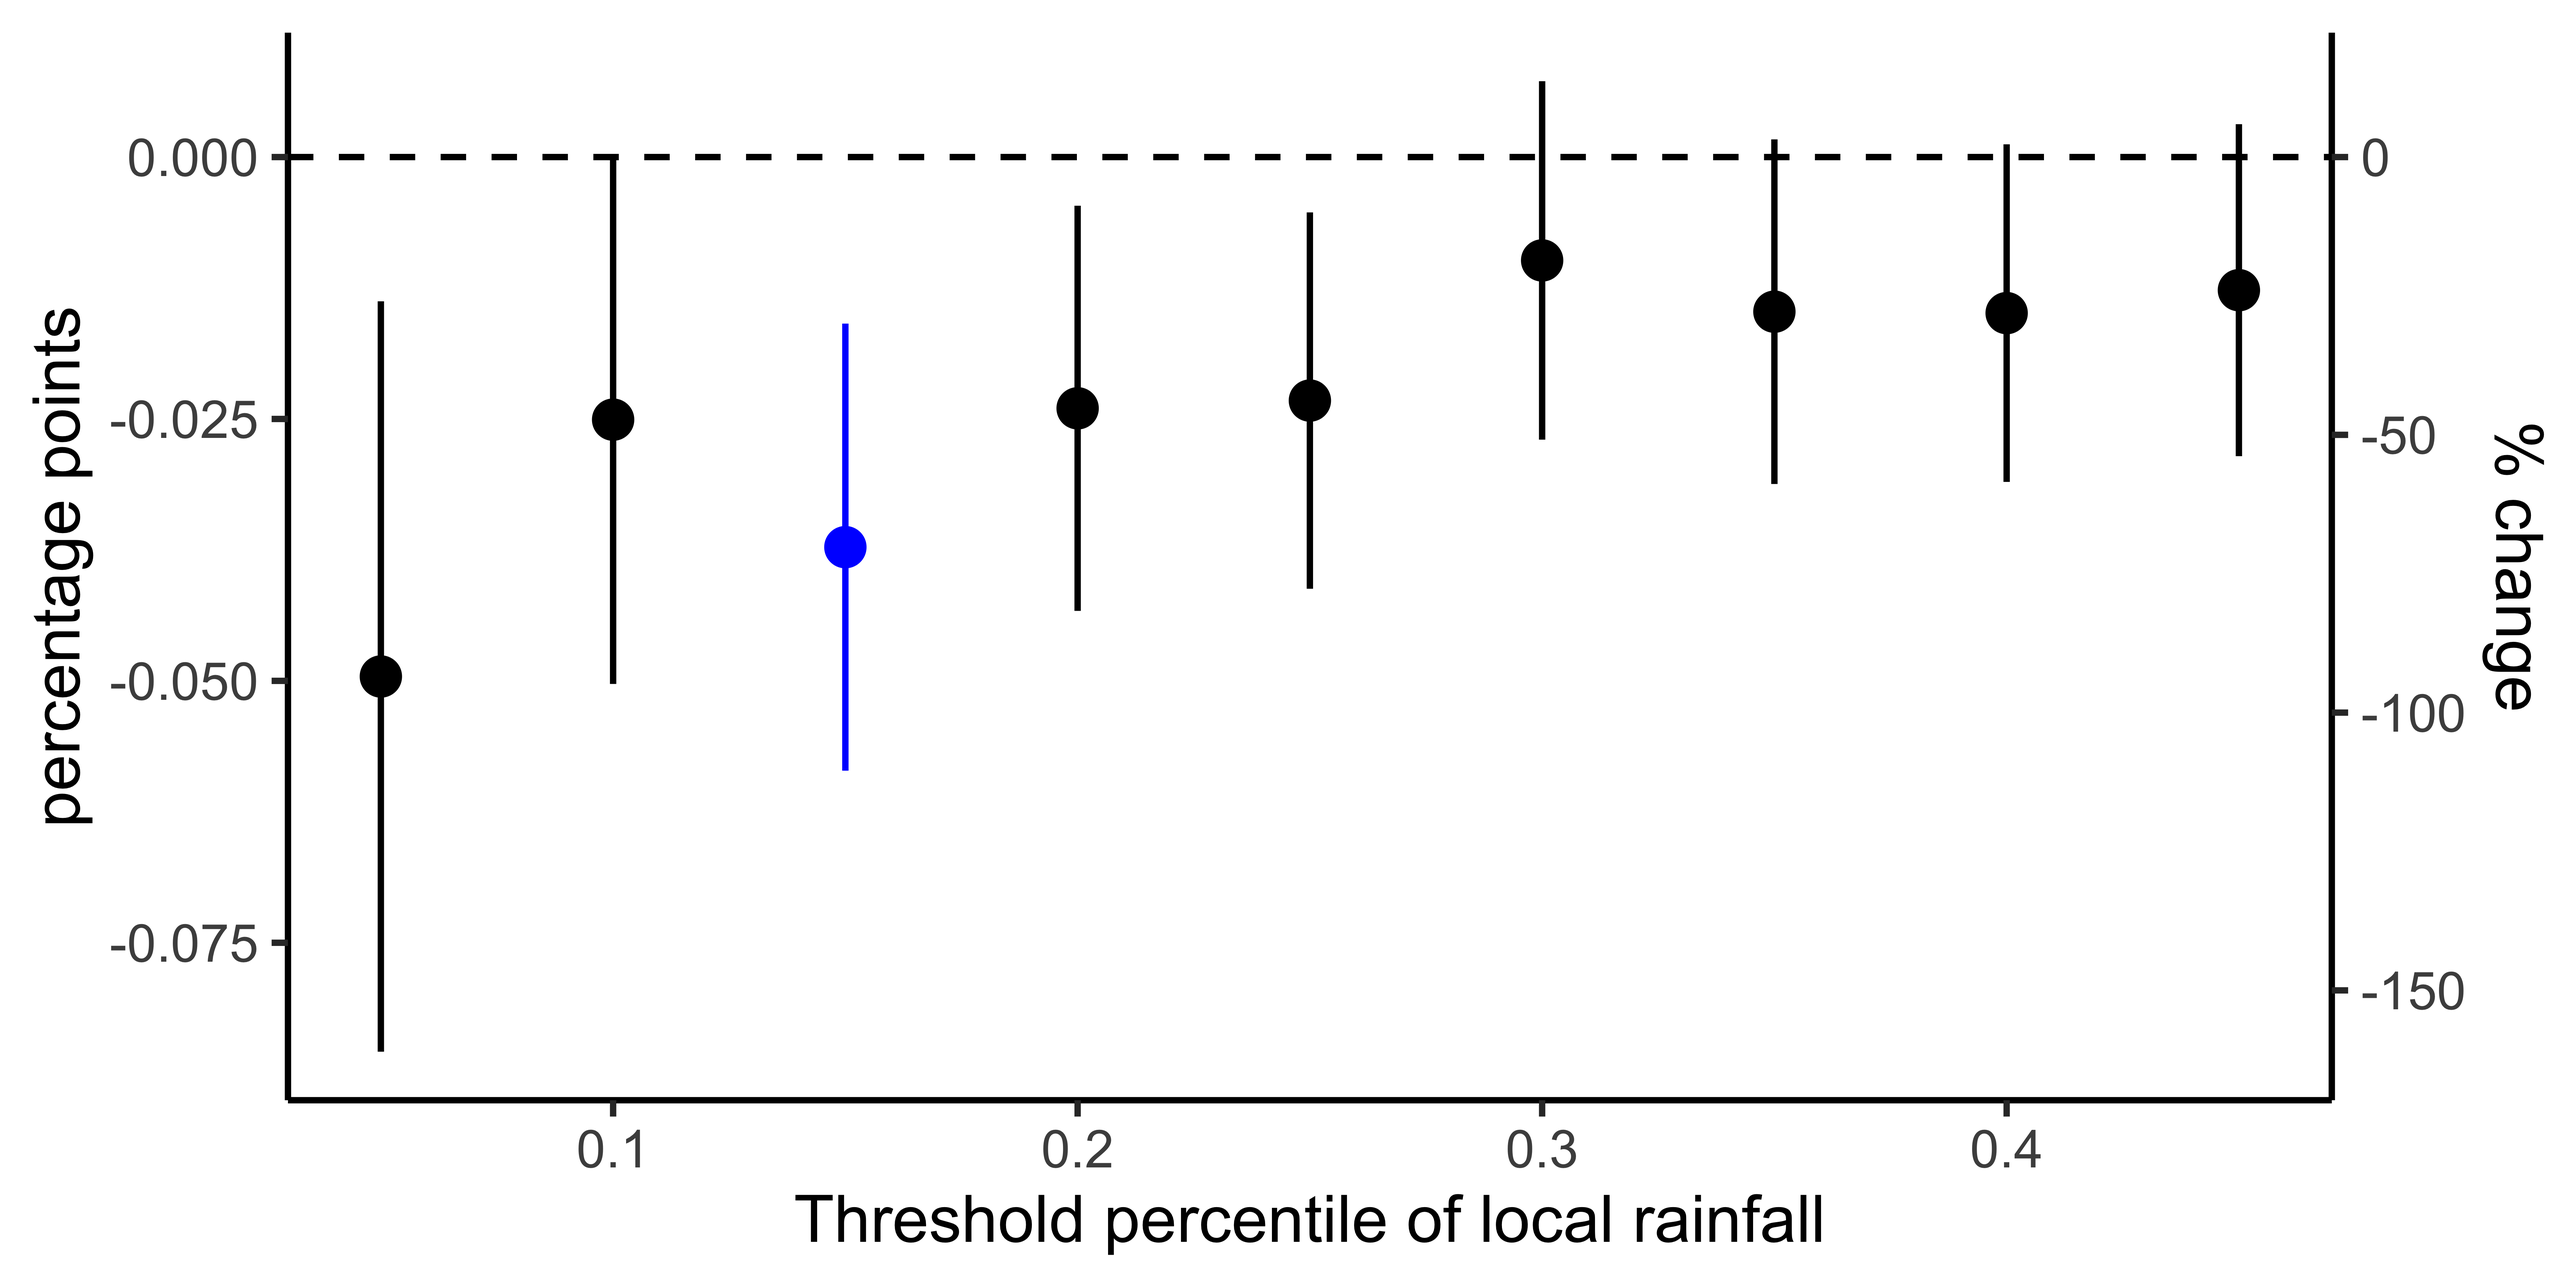
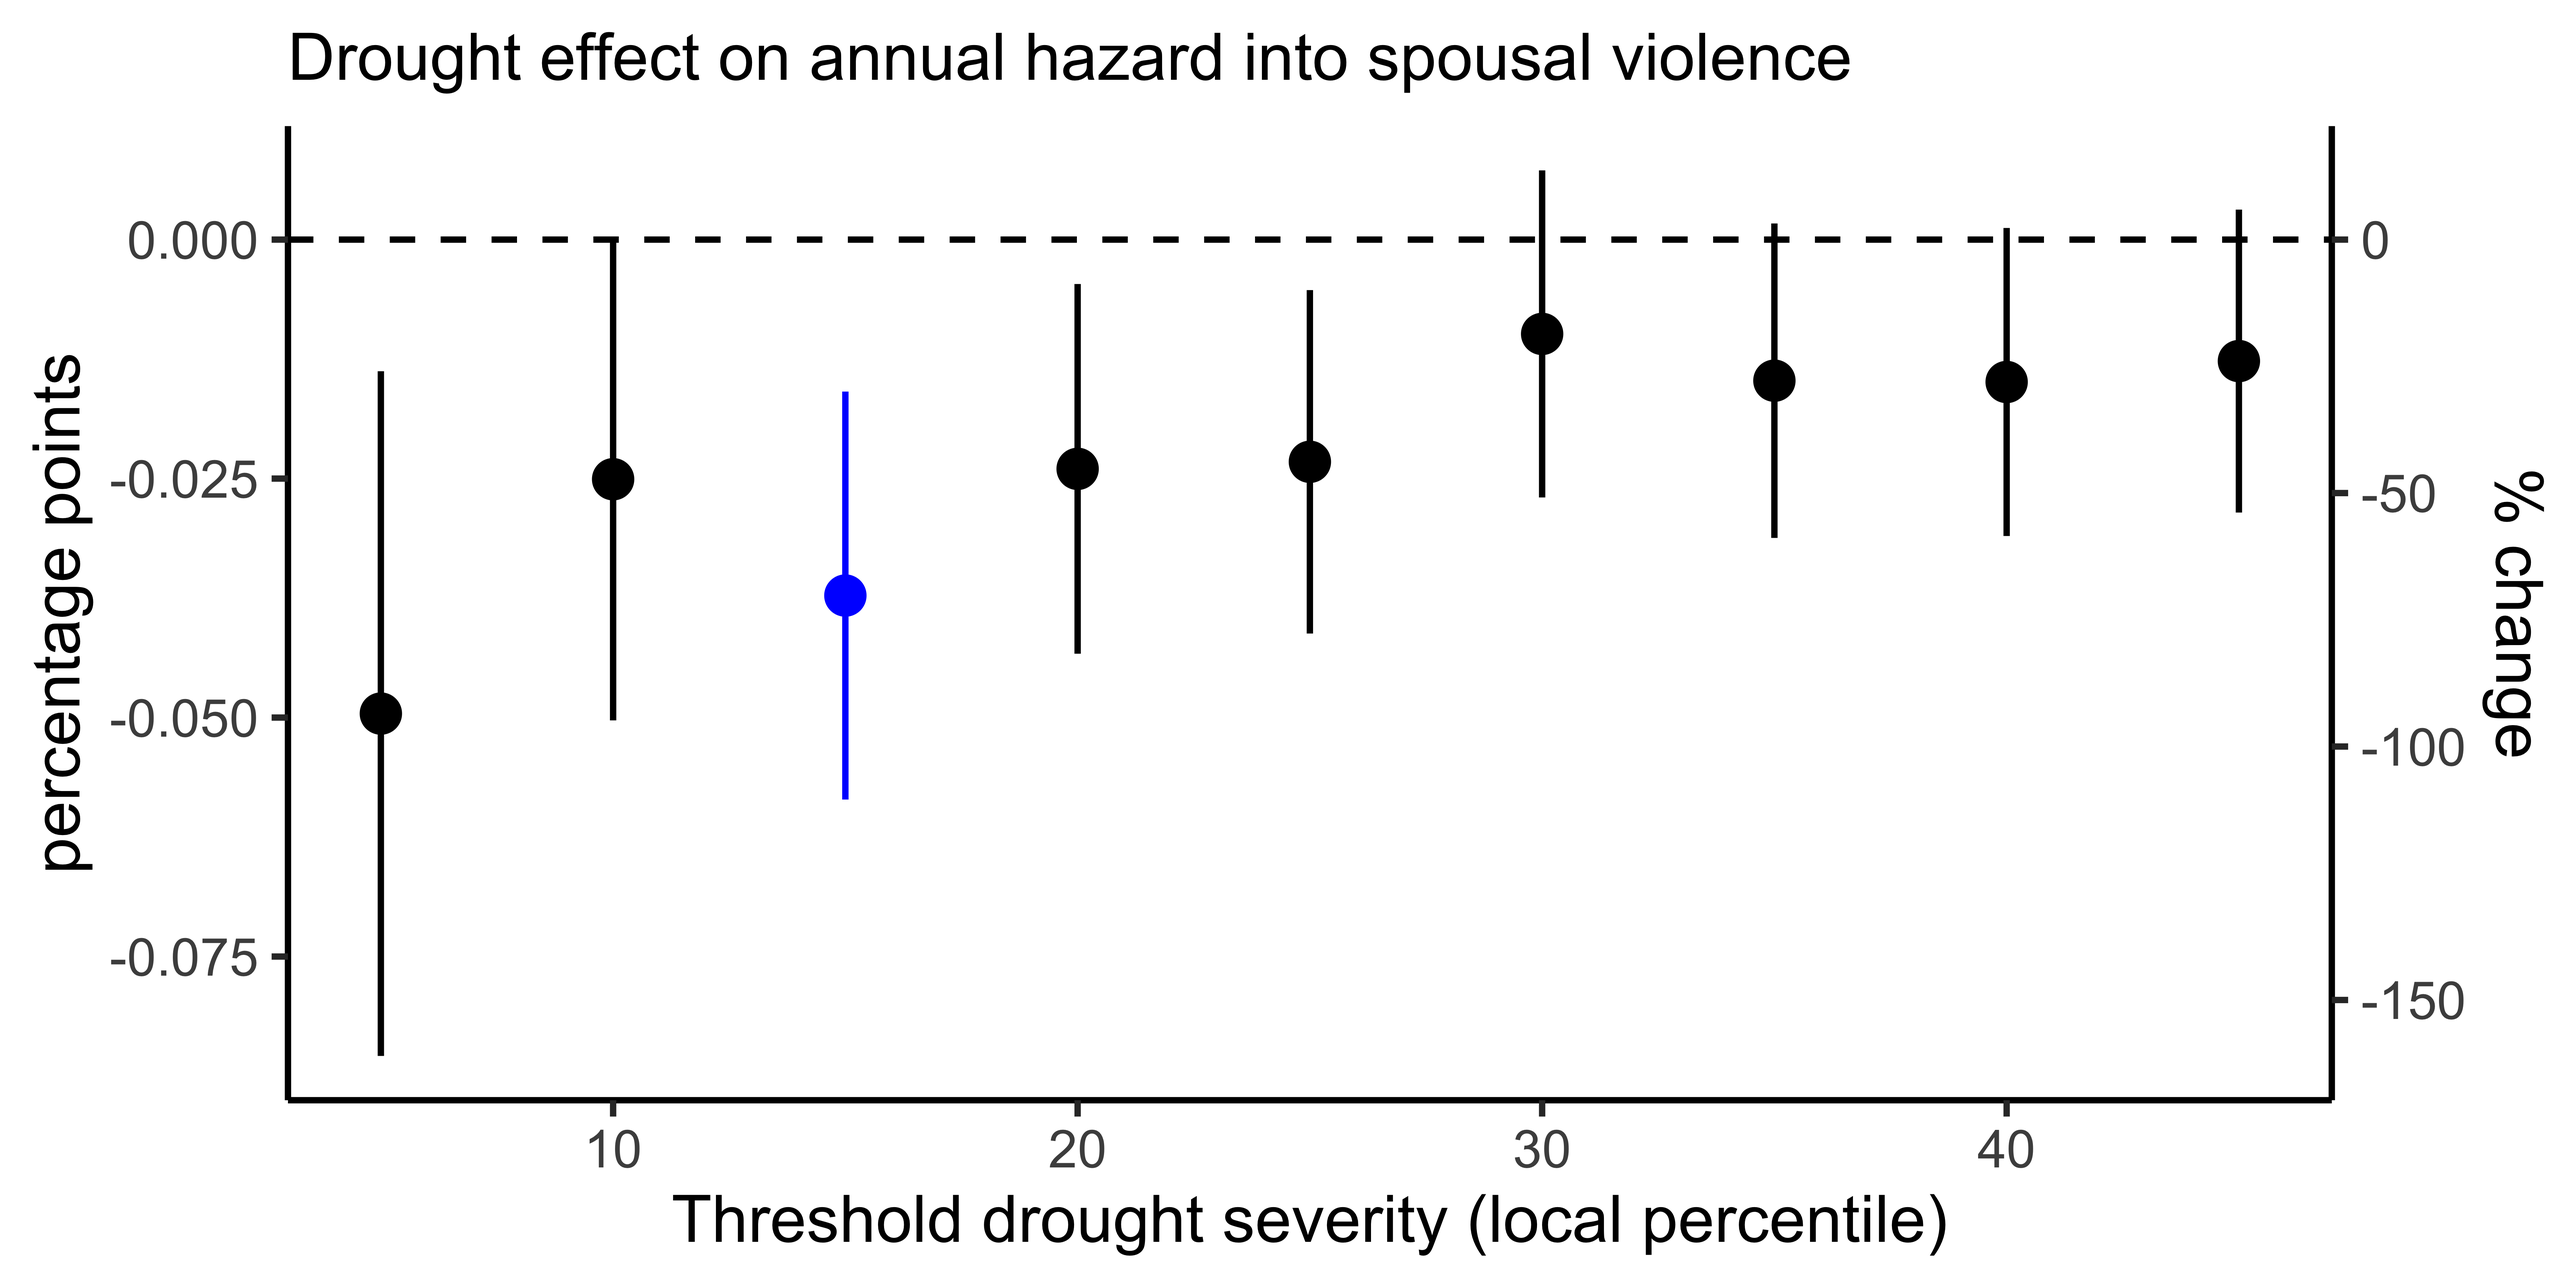
Figs

diff --git a/content/research.md b/content/research.md
@@ -36,11 +36,11 @@ I empirically test the relative merits of these theories first by measuring the 
 
 ### Evidence of a drought effect on the hazard into spousal violence (WP)
 
-**Tanushree Goyal](https://www.tanushreegoyal.com) $\cdot$ Matthew Alampay Davis**  
+**Matthew Alampay Davis $\cdot$ Tanushree Goyal](https://www.tanushreegoyal.com)**  
 
 In this work in progress, we explore how income shocks may impact the probability that a previously non-violent marriage turns violent. We combine high-resolution weather data with comprehensive duration data on the experiences with domestic violence in India to estimate how drought-induced shocks may affect gendered outcomes. Early findings suggest that negative income shocks substantially reduce the hazard into marital violence. Specifically, a negative precipitation shock of a magnitude expected once every 4-5 years reduces the risk of a never-violent relationship becoming violent by 0.037 percentage points, representing a 70\% reduction in the baseline hazard during the formative years of a marriage.
 
-We also replicate a recently published study relating these weather shocks to the risk of child marriage using updated methods and much-improved data. We find that these effects are milder but more persistent than previously understood. In addition, we find that this result is reproduced in Sub-Saharan African countries, contradicting the headline result of the original study. Secondary results find that the practice of child marriage may be less economically motivated than marriages occurring later in life, suggesting economic growth is unlikely to  mitigate these persistent patriarchal practices.
+We also replicate a recently published study relating these weather shocks to the risk of child marriage using updated methods and much-improved data. I am able to corroborate the original finding of drought effects in India which reduce the hazard into child marriage though estimates are smaller and more persistent than characterized in the original study. Critically, I find this phenomenon is reproduced in Sub-Saharan African contexts, contrary to the original finding of opposite-signed effects, which suggests that consumption-smoothing incentives may not be as pertinent a determinant of child marriage as previously suggested. Instead, secondary results suggest that child marriage seems may be less economically motivated than marriages occurring later in life.
 
 ![](/papers/Drought-IPV.png)
 
